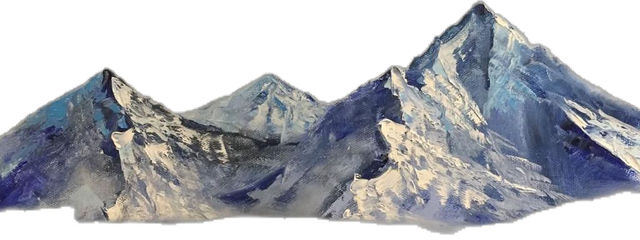
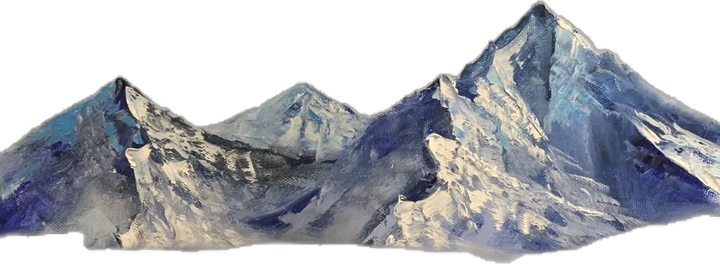
Remove white base from mountain range, enlarge it, nudge lily pads up

Changed region(s): [[0.0, 0.0875, 1.0, 1.0], [0.7812, 0.1167, 0.8125, 0.1458], [0.0938, 0.7875, 0.125, 0.8167]]

diff --git a/src/index.css b/src/index.css
@@ -48,7 +48,7 @@ img { display: block; max-width: 100%; }
   text-transform: uppercase; color: var(--accent);
 }
 .section-head.head-img { align-items: center; }
-.exp-range { flex: 0 0 auto; height: clamp(32px, 4.5vw, 50px); width: auto; margin-left: 18px; }
+.exp-range { flex: 0 0 auto; height: clamp(40px, 6vw, 70px); width: auto; margin-left: 18px; }
 .contact-frog { flex: 0 0 auto; height: clamp(44px, 6vw, 74px); width: auto; margin-left: 18px; }
 @media (max-width: 680px) { .exp-range, .contact-frog { display: none; } }
 
@@ -166,7 +166,7 @@ img { display: block; max-width: 100%; }
 
 /* ---------- decorative nature accents ---------- */
 .decor { position: absolute; pointer-events: none; z-index: 0; }
-.decor-lily { top: 30px; right: 0; width: clamp(190px, 22vw, 300px); opacity: 0.92; }
+.decor-lily { top: 11px; right: 0; width: clamp(190px, 22vw, 300px); opacity: 0.92; }
 .decor-vine { top: -56px; right: 0; width: clamp(100px, 13vw, 168px); opacity: 0.96; }
 #skills { overflow: visible; }
 @media (max-width: 960px) { .decor { display: none; } }

diff --git a/src/components/Experience.jsx b/src/components/Experience.jsx
@@ -8,7 +8,7 @@ export default function Experience() {
         <div className="section-head head-img reveal">
           <span className="section-index">02</span>
           <h2 className="section-title">Experience</h2>
-          <img className="exp-range" src="/nature/mountainrange.png" alt="" aria-hidden="true" />
+          <img className="exp-range" src="/nature/mountainrange.png?v=2" alt="" aria-hidden="true" />
         </div>
         <div className="reveal">
           <Carousel>
